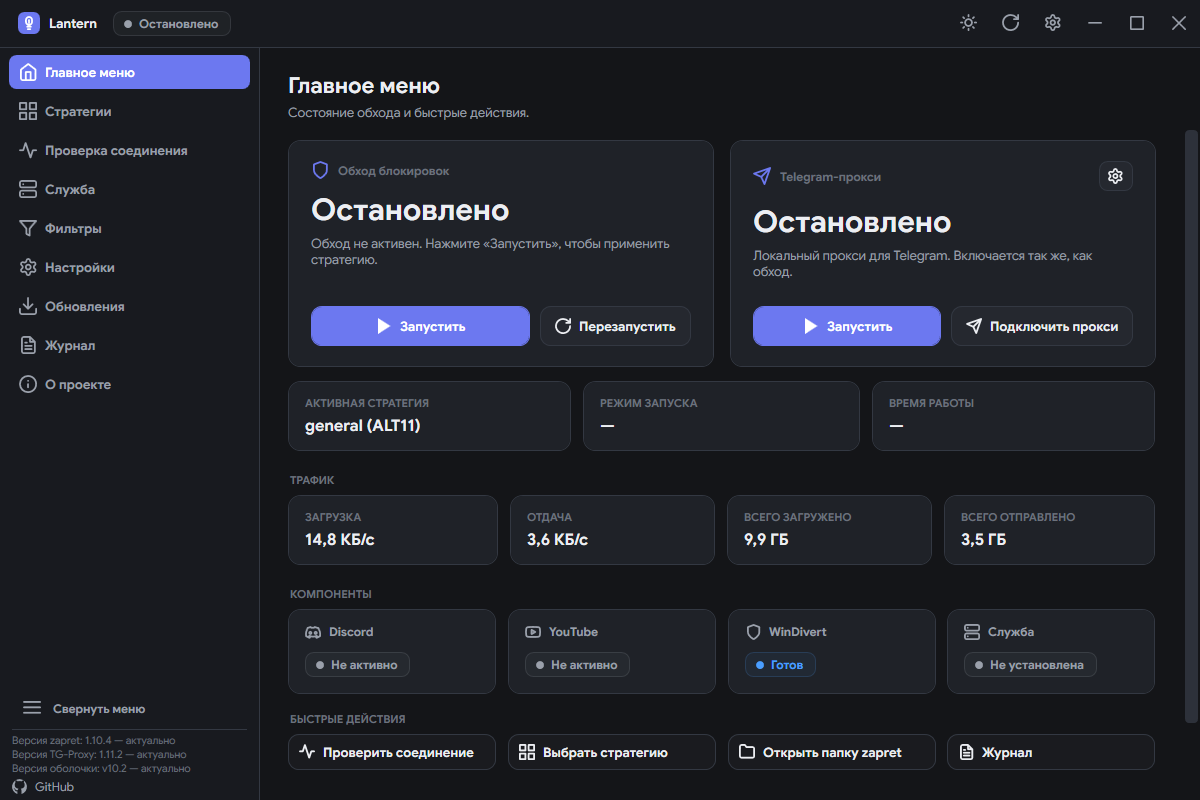
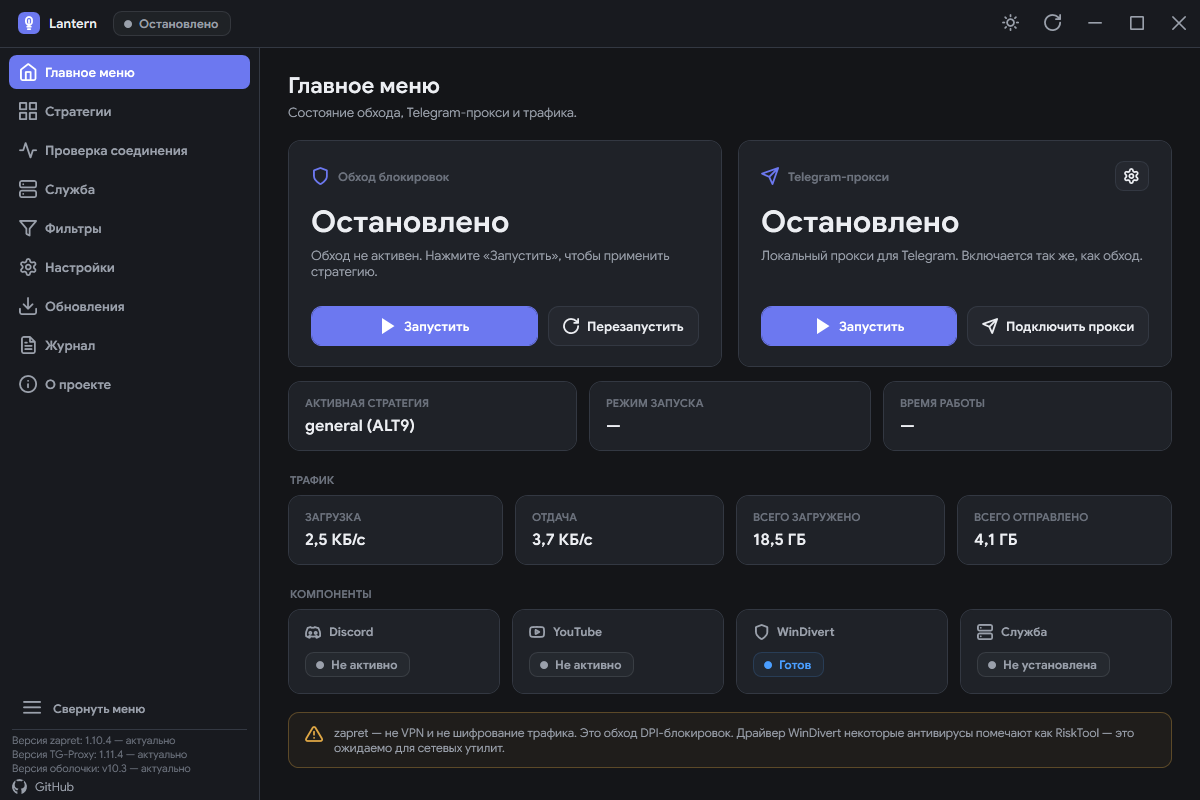
Regenerate 10.3 screenshots with the default theme and font
- All docs screenshots (README main shot, guide sections, theme
  gallery) are re-rendered by the selftest from 10.3 with the default
  dark theme, default accent and Google Sans.
- The selftest now also renders docs/screens/settings-tg.png at the
  same 1200x800 size as the other sections; it used to be left out.
- The overview subtitle still promised quick actions, which are gone;
  the unused ov.sec.quick string is dropped.
- guide.md describes the new strategy toolbar and list editor.

diff --git a/_app/Loc.cs b/_app/Loc.cs
@@ -122,7 +122,7 @@ namespace ZapretStudio
             A("strat.recommend.applyQ", "Применить эту стратегию прямо сейчас?", "Apply this strategy right now?");
             A("strat.recommend.applied", "Стратегия применена: {0}", "Strategy applied: {0}");
             A("overview.title",    "Главное меню",               "Main menu");
-            A("overview.sub",      "Состояние обхода и быстрые действия.", "Bypass status and quick actions.");
+            A("overview.sub",      "Состояние обхода, Telegram-прокси и трафика.", "Bypass, Telegram proxy and traffic status.");
             A("strategies.title",  "Стратегии",           "Strategies");
             A("strategies.sub",    "Наборы параметров обхода из BAT-файлов. Логика zapret не изменяется.", "Bypass parameter sets from BAT files. Zapret logic is unchanged.");
             A("check.title",       "Проверка соединения", "Connection check");
@@ -324,7 +324,6 @@ namespace ZapretStudio
             A("ov.svc.running",   "Запущена",          "Running");
             A("ov.svc.stopped",   "Остановлена",       "Stopped");
             A("ov.svc.absent",    "Не установлена",    "Not installed");
-            A("ov.sec.quick",     "Быстрые действия",  "Quick actions");
             A("ov.sec.tg",        "Telegram-прокси",   "Telegram proxy");
             A("ov.zap.title",     "Обход блокировок",  "Bypass");
             A("ov.tg.desc",       "Локальный прокси для Telegram. Включается так же, как обход.", "Local proxy for Telegram. Toggles like the bypass.");

diff --git a/_app/SelfTest.cs b/_app/SelfTest.cs
@@ -344,6 +344,13 @@ namespace ZapretStudio
             NavCheck(win, "service"); ForceLayout(win); Shot(win, "section-service");
             NavCheck(win, "filters"); ForceLayout(win); Shot(win, "section-filters");
             NavCheck(win, "settings"); ForceLayout(win); Shot(win, "section-settings");
+            // Кадр секции Telegram-прокси для docs/screens/settings-tg.png — того же
+            // размера 1200×800, что и остальные разделы.
+            win.OpenTgProxySettings();
+            for (int i = 0; i < 50; i++) { System.Threading.Thread.Sleep(20); Pump(); }
+            ForceLayout(win); Shot(win, "section-settings-tg");
+            var spTg = FindPage(win) as SettingsPage;
+            if (spTg != null) { spTg.ScrollOffset = 0; Pump(); ForceLayout(win); }
             NavCheck(win, "updates"); ForceLayout(win); Shot(win, "section-updates");
             NavCheck(win, "log"); ForceLayout(win); Shot(win, "section-log");
             NavCheck(win, "about"); ForceLayout(win); Shot(win, "section-about");

diff --git a/docs/guide.md b/docs/guide.md
@@ -134,7 +134,7 @@
 | 🩺 **Диагностика системы** | Полная проверка сетевого стека Windows, автоопределение конфликтов и инструменты быстрого ремонта в 1 клик. |
 
 ### Групповая проверка и отчёты:
-- **Массовая проверка**: отметьте нужные стратегии галочками и нажмите «Выбранные»; «Проверить все» прогоняет весь список, «Остановить» прерывает прогон.
+- **Массовая проверка**: главная кнопка показывает «Проверить все», пока ничего не отмечено, и «Проверить выбранные (N)», когда стратегии отмечены галочками; во время прогона она становится «Остановить». Рядом — «Выбрать все» / «Снять выбор» и «Автоподбор».
 - **Рабочие в избранное**: после завершённой проверки появляется кнопка «Рабочие в избранное (N)» — она добавляет только стратегии, прошедшие все цели, без дублей.
 - **Отчёт**: результаты пакетной проверки и автоподбора сохраняются в `utils\test results\test_results_ГГГГ-ММ-ДД_ЧЧ-ММ-СС.txt` — в том же каталоге, что у `service.bat`; в файле цели с кодами и временем, аналитика и лучшая стратегия.
 
@@ -202,6 +202,7 @@
 
 ### 3. Визуальный редактор списков
 - Позволяет просматривать, добавлять и удалять домены прямо из интерфейса для файлов `list-general-user.txt`, `list-exclude-user.txt` и `ipset-exclude-user.txt`.
+- Запись вводится в поле над списком и добавляется кнопкой «Добавить» или клавишей Enter; неподходящая запись не добавляется, а причина пишется под полем. У каждой строки — своя кнопка удаления.
 
 ---
 
